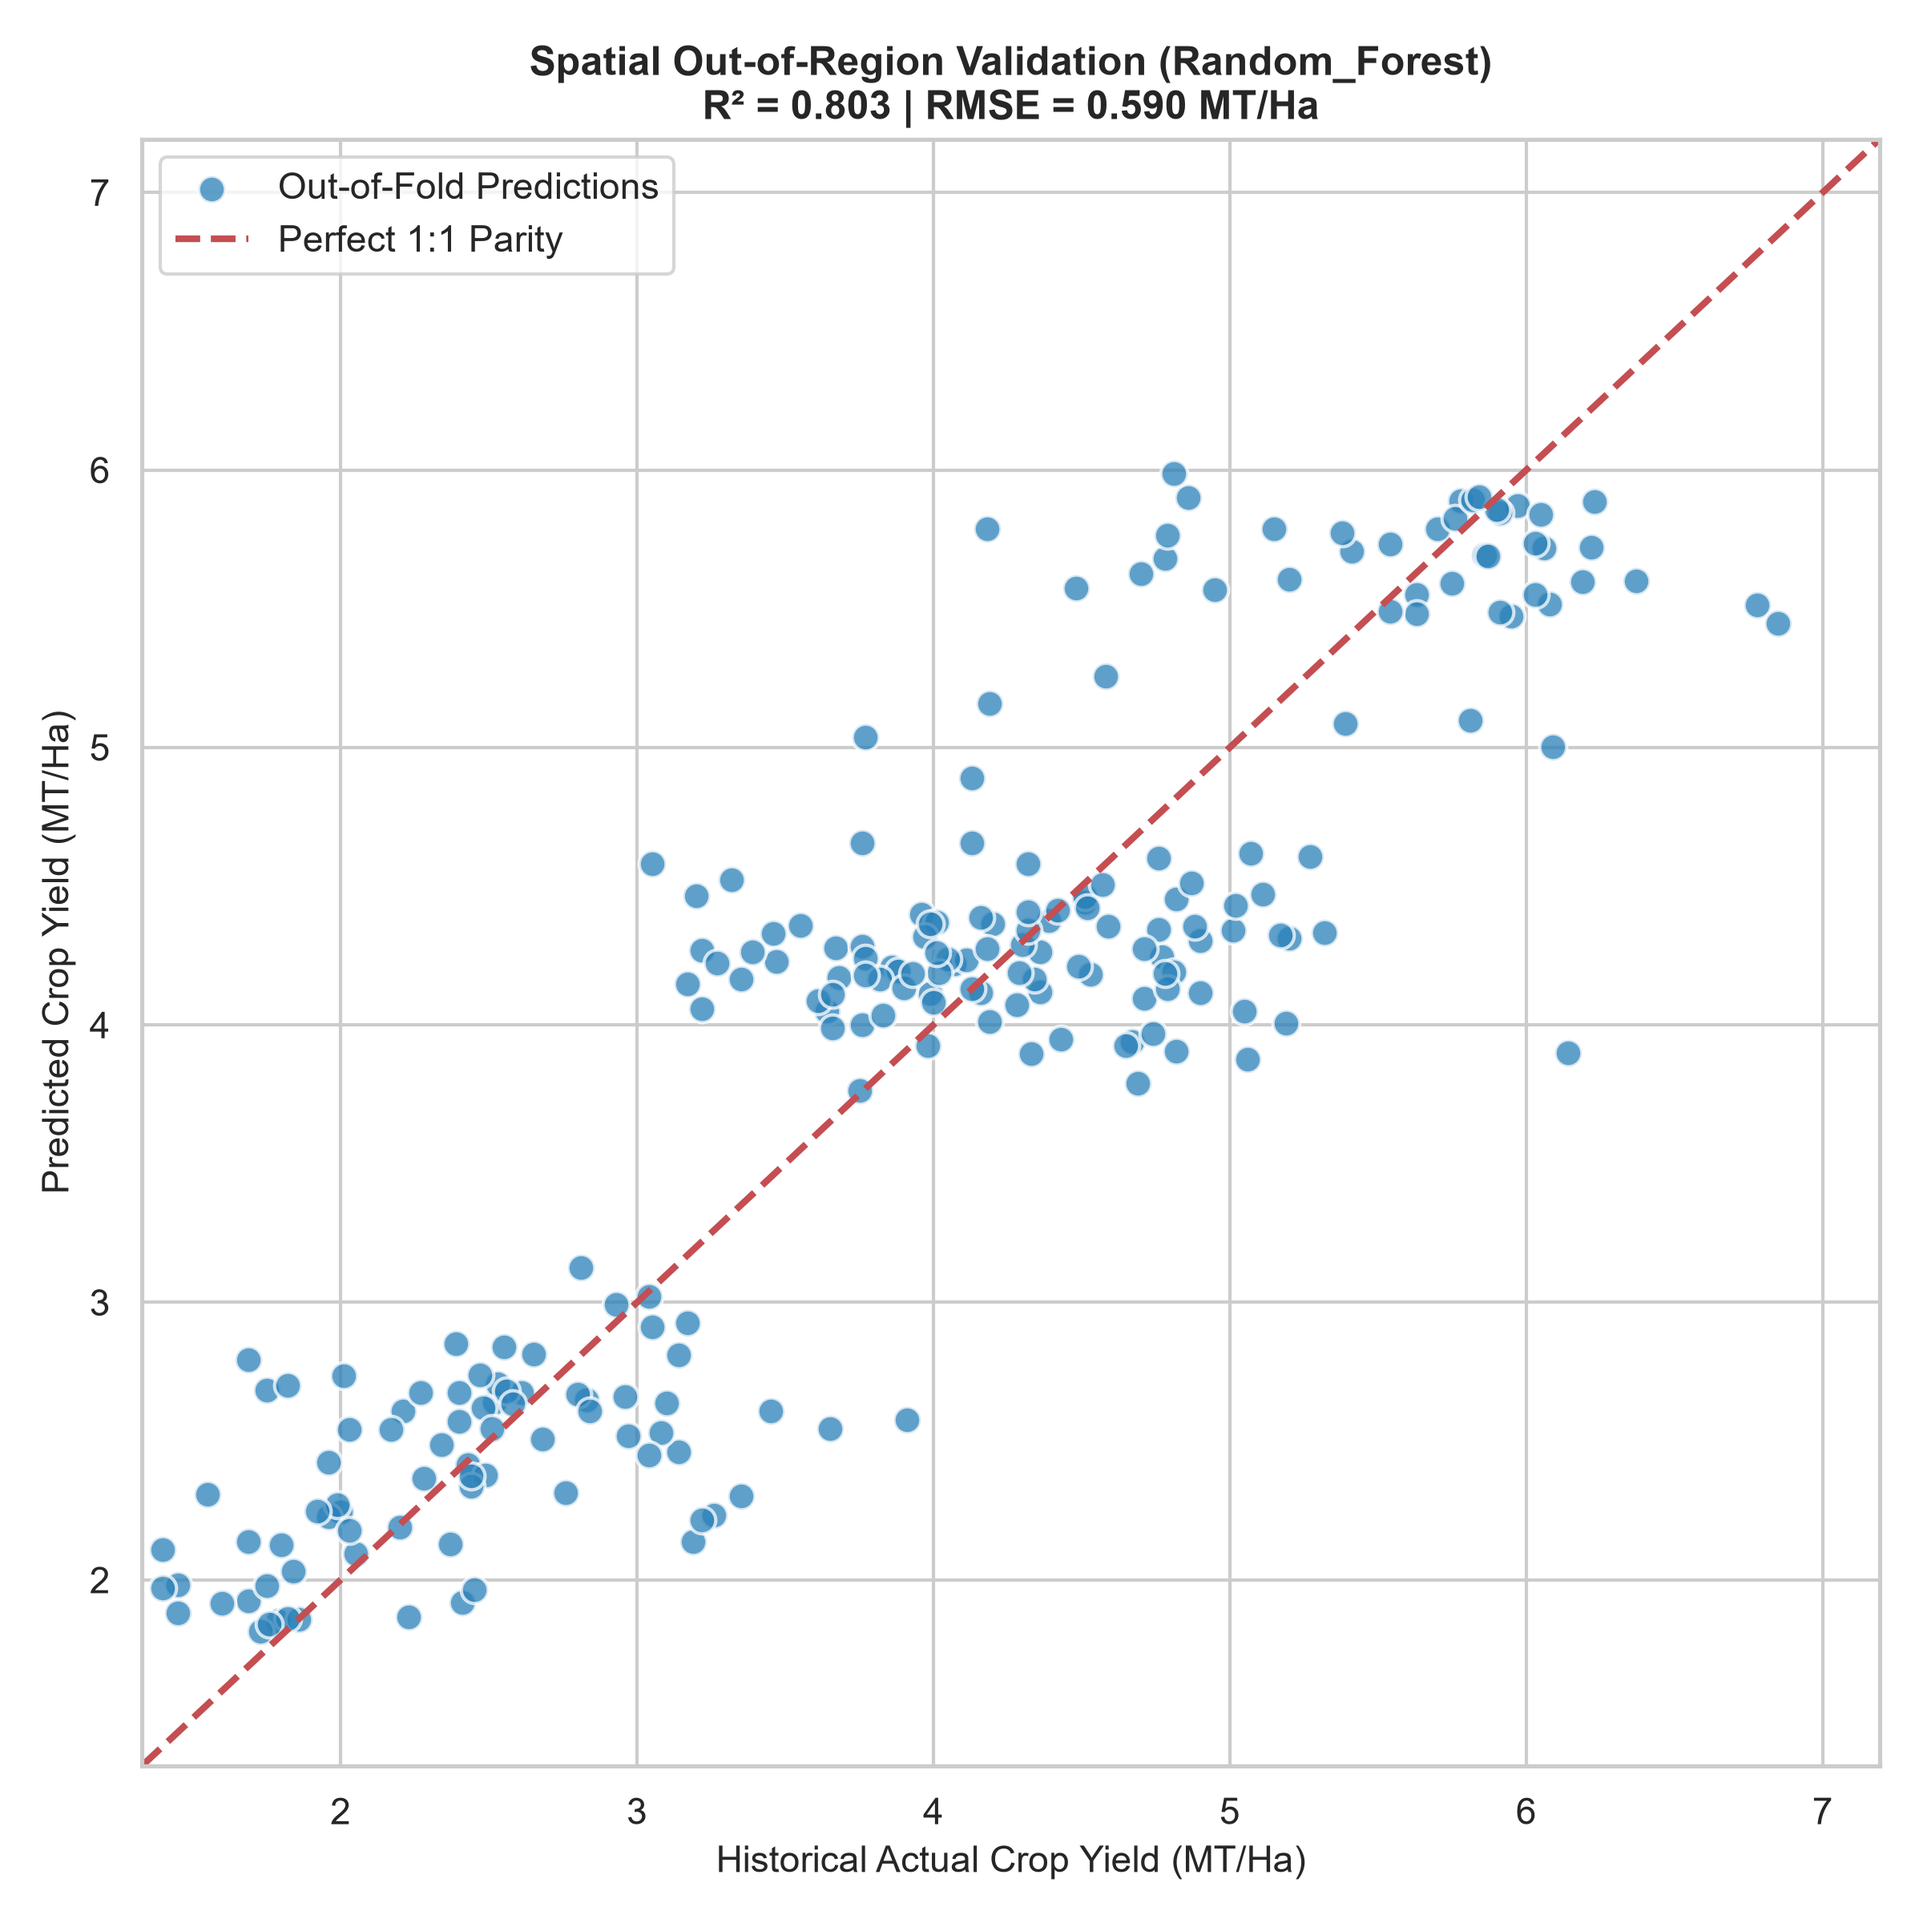
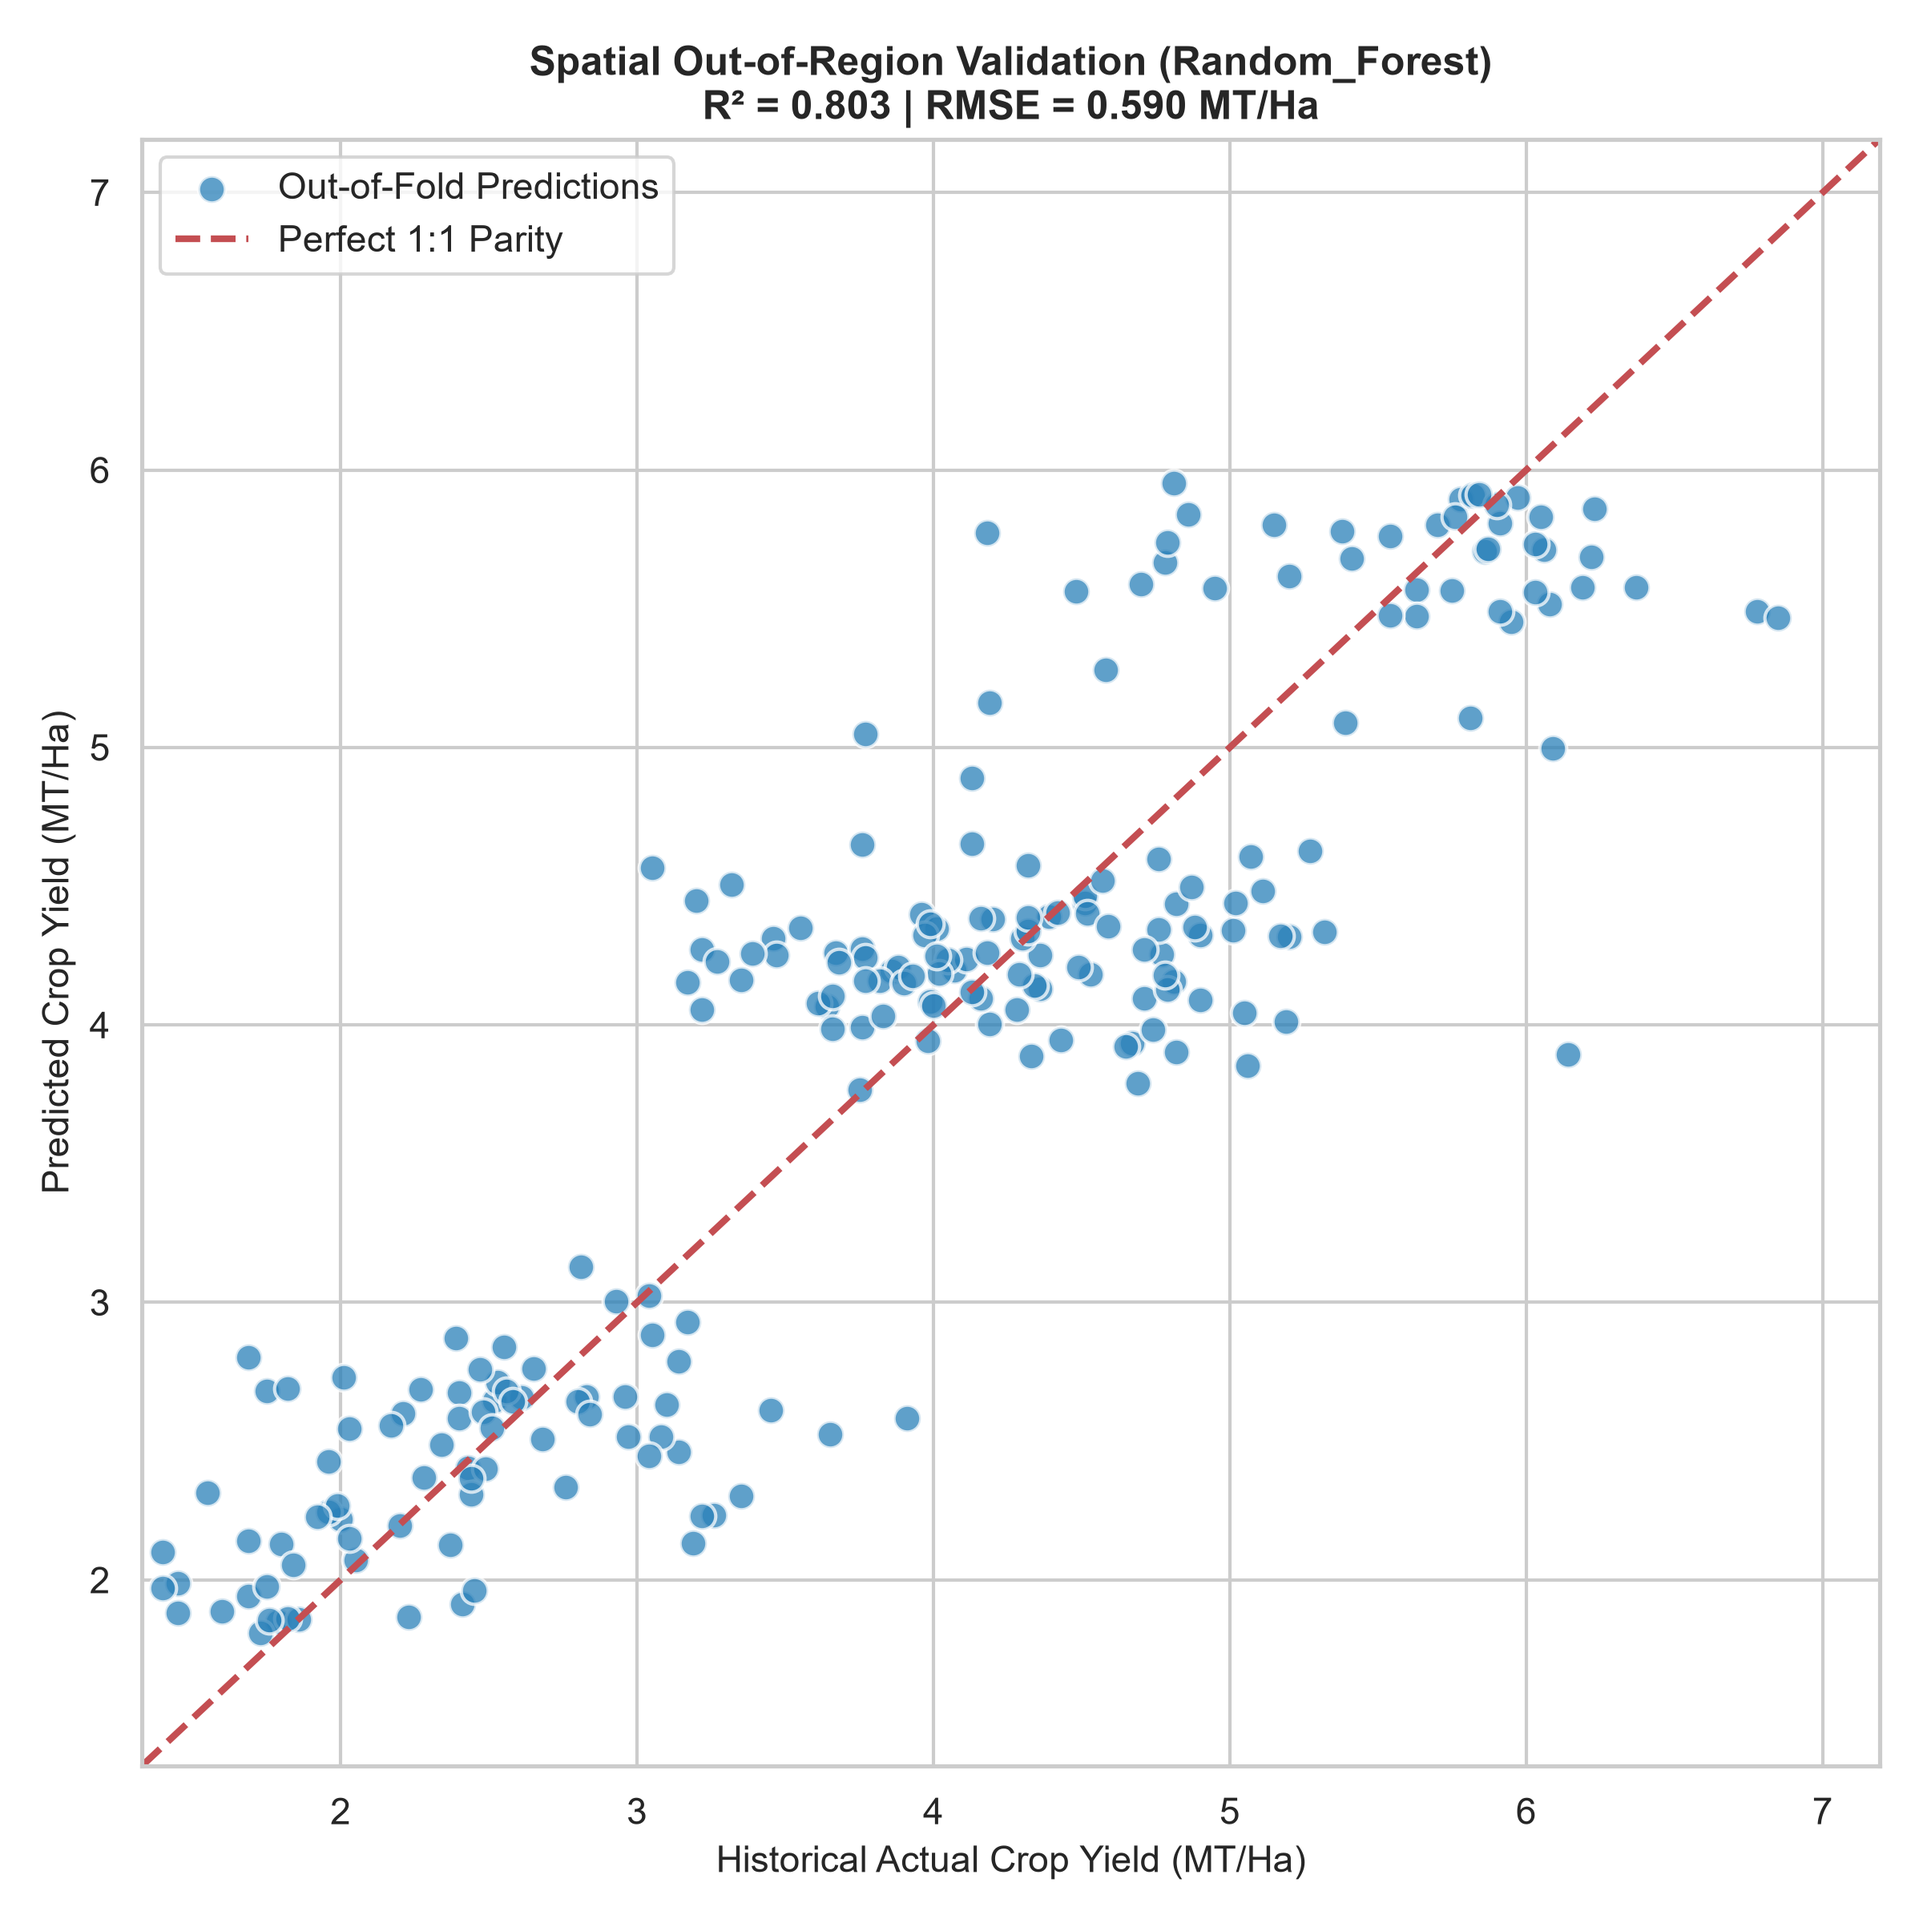
feat(api-inference): connect REST API predict/yield with production ML model checkpoint and update test imports

diff --git a/src/api/services/inference.py b/src/api/services/inference.py
@@ -1,8 +1,25 @@
-"""
-Real-time Inference Service for Crop Yield Forecasting and SHAP Agronomic Diagnostics.
-"""
+import logging
+from pathlib import Path
+from typing import Any, Dict, List, Optional, Tuple
 
-from typing import Any, Dict, List, Tuple
+logger = logging.getLogger("axlero_agri_api.inference_service")
+
+_ml_engine = None
+
+
+def get_ml_inference_engine():
+    """Lazily load and cache the production trained ML inference engine."""
+    global _ml_engine
+    if _ml_engine is None:
+        model_path = Path("models/best_yield_regressor.joblib")
+        if model_path.exists():
+            try:
+                from src.inference import CropYieldInferenceEngine
+                _ml_engine = CropYieldInferenceEngine(model_path)
+                logger.info("Successfully loaded production ML CropYieldInferenceEngine for REST API.")
+            except Exception as e:
+                logger.warning(f"Could not load ML CropYieldInferenceEngine: {e}")
+    return _ml_engine
 
 
 CROP_BASELINES = {
@@ -187,6 +204,35 @@ def predict_yield(
     )
 
     final_predicted = round(estimated_baseline + potential_gain, 2)
+    model_version = "axlero_rf_ensemble_v1.0.0"
+    confidence_score = 0.934
+
+    # Integrate with production ML checkpoint if loaded
+    engine = get_ml_inference_engine()
+    if engine is not None:
+        try:
+            raw_input = {
+                "crop": crop,
+                "crop_type": crop,
+                "nitrogen": nitrogen,
+                "phosphorus": phosphorus,
+                "potassium": potassium,
+                "ph": ph,
+                "soil_ph": ph,
+                "rainfall": rainfall,
+                "temp_max": temp_max,
+            }
+            ml_res = engine.predict_single(raw_input)
+            pred_from_ml = float(ml_res.get("predicted_yield_mt_ha", 0.0))
+            if pred_from_ml > 0:
+                final_predicted = round(pred_from_ml, 2)
+                estimated_baseline = round(max(0.1, final_predicted - potential_gain), 2)
+                model_version = f"axlero_{engine.model_name.lower()}_v1.0.0"
+                std_err = float(ml_res.get("std_error", 0.2))
+                confidence_score = round(max(0.6, min(0.99, 1.0 - (std_err / max(1.0, final_predicted)))), 3)
+        except Exception as err:
+            logger.warning(f"Error evaluating ML engine: {err}. Using calibrated baseline calculation.")
+
     shap_vals = compute_shap_attributions(
         crop=crop,
         nitrogen=nitrogen,
@@ -202,8 +248,8 @@ def predict_yield(
         "predicted_yield": final_predicted,
         "baseline_yield": estimated_baseline,
         "potential_gain": potential_gain,
-        "confidence_score": 0.934,
-        "model_version": "axlero_rf_ensemble_v1.0.0",
+        "confidence_score": confidence_score,
+        "model_version": model_version,
         "recommendations": recommendations,
         "shap_values": shap_vals,
         "input_features": {

diff --git a/tests/test_inference.py b/tests/test_inference.py
@@ -7,6 +7,7 @@ import io
 import json
 import unittest
 from pathlib import Path
+from typing import Any, Dict, Optional
 import numpy as np
 import pandas as pd
 

diff --git a/reports/model_benchmark_report.md b/reports/model_benchmark_report.md
@@ -1,6 +1,6 @@
 # 🤖 Day 9: Spatial Block Cross-Validation & Regression Model Benchmark Report
 
-**Generated**: 2026-10-21 15:16:03  
+**Generated**: 2026-10-29 22:12:15  
 **Scope**: Day 9 Milestone — Supervised Ensemble Regression & Leak-Free Spatial Validation  
 **Champion Production Model**: **Random_Forest**  
 **Artifact Location**: `models\best_yield_regressor.joblib`  
@@ -12,8 +12,8 @@
 | Model Algorithm | Spatial $R^2$ | Spatial RMSE (MT/Ha) | Spatial MAE (MT/Ha) | Spatial MAPE (%) | Benchmark Target Met? |
 | :--- | :---: | :---: | :---: | :---: | :---: |
 | **Ridge** | **0.6771** | 0.7535 | 0.6026 | 17.88% | ⚠ Acceptable |
-| **Random_Forest** ⭐ **Champion** | **0.8033** | 0.5882 | 0.4558 | 12.97% | ⚠ Acceptable |
-| **Gradient_Boosting** | **0.7634** | 0.6461 | 0.5017 | 14.02% | ⚠ Acceptable |
+| **Random_Forest** ⭐ **Champion** | **0.8035** | 0.5879 | 0.4563 | 12.98% | ⚠ Acceptable |
+| **Gradient_Boosting** | **0.7639** | 0.6455 | 0.5011 | 14.00% | ⚠ Acceptable |
 | **Hist_Gradient_Boosting** | **0.7717** | 0.6332 | 0.5087 | 14.65% | ⚠ Acceptable |
 
 ---
@@ -22,13 +22,13 @@
 
 | Test Year | LOYO $R^2$ | LOYO RMSE (MT/Ha) | LOYO MAPE (%) | Climate Context |
 | :---: | :---: | :---: | :---: | :--- |
-| **2019** | 0.7983 | 0.6095 | 12.07% | Normal Agronomic Trajectory |
-| **2020** | 0.7292 | 0.7012 | 14.60% | Normal Agronomic Trajectory |
-| **2021** | 0.3129 | 0.9060 | 23.66% | 2021 Severe Heatwave & Drought Anomaly |
-| **2022** | 0.8696 | 0.4800 | 10.43% | Normal Agronomic Trajectory |
-| **2023** | 0.8724 | 0.5047 | 13.45% | Normal Agronomic Trajectory |
+| **2019** | 0.7967 | 0.6119 | 12.12% | Normal Agronomic Trajectory |
+| **2020** | 0.7302 | 0.7000 | 14.57% | Normal Agronomic Trajectory |
+| **2021** | 0.3112 | 0.9071 | 23.73% | 2021 Severe Heatwave & Drought Anomaly |
+| **2022** | 0.8693 | 0.4807 | 10.40% | Normal Agronomic Trajectory |
+| **2023** | 0.8734 | 0.5029 | 13.38% | Normal Agronomic Trajectory |
 
-**Average LOYO Performance**: $R^2 = 0.7165$ | $\text{RMSE} = 0.6403$ | $\text{MAPE} = 14.84\%$
+**Average LOYO Performance**: $R^2 = 0.7162$ | $\text{RMSE} = 0.6405$ | $\text{MAPE} = 14.84\%$
 
 ---
 ✅ **Ready for Day 10**: Production model checkpoint ready for SHAP factor attribution and the Prescriptive Farmer Advisory Engine.
